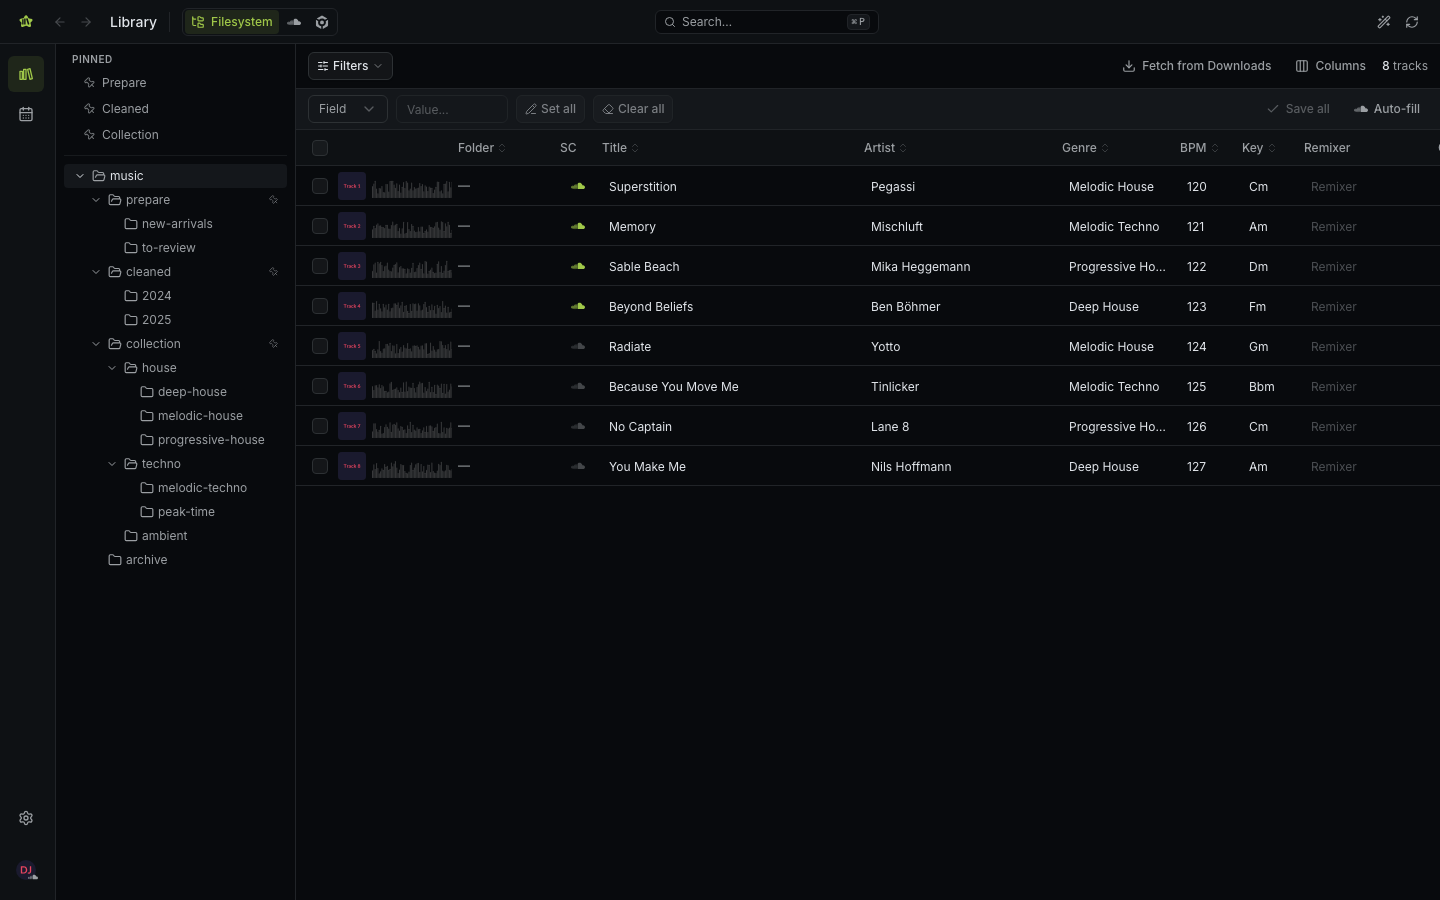
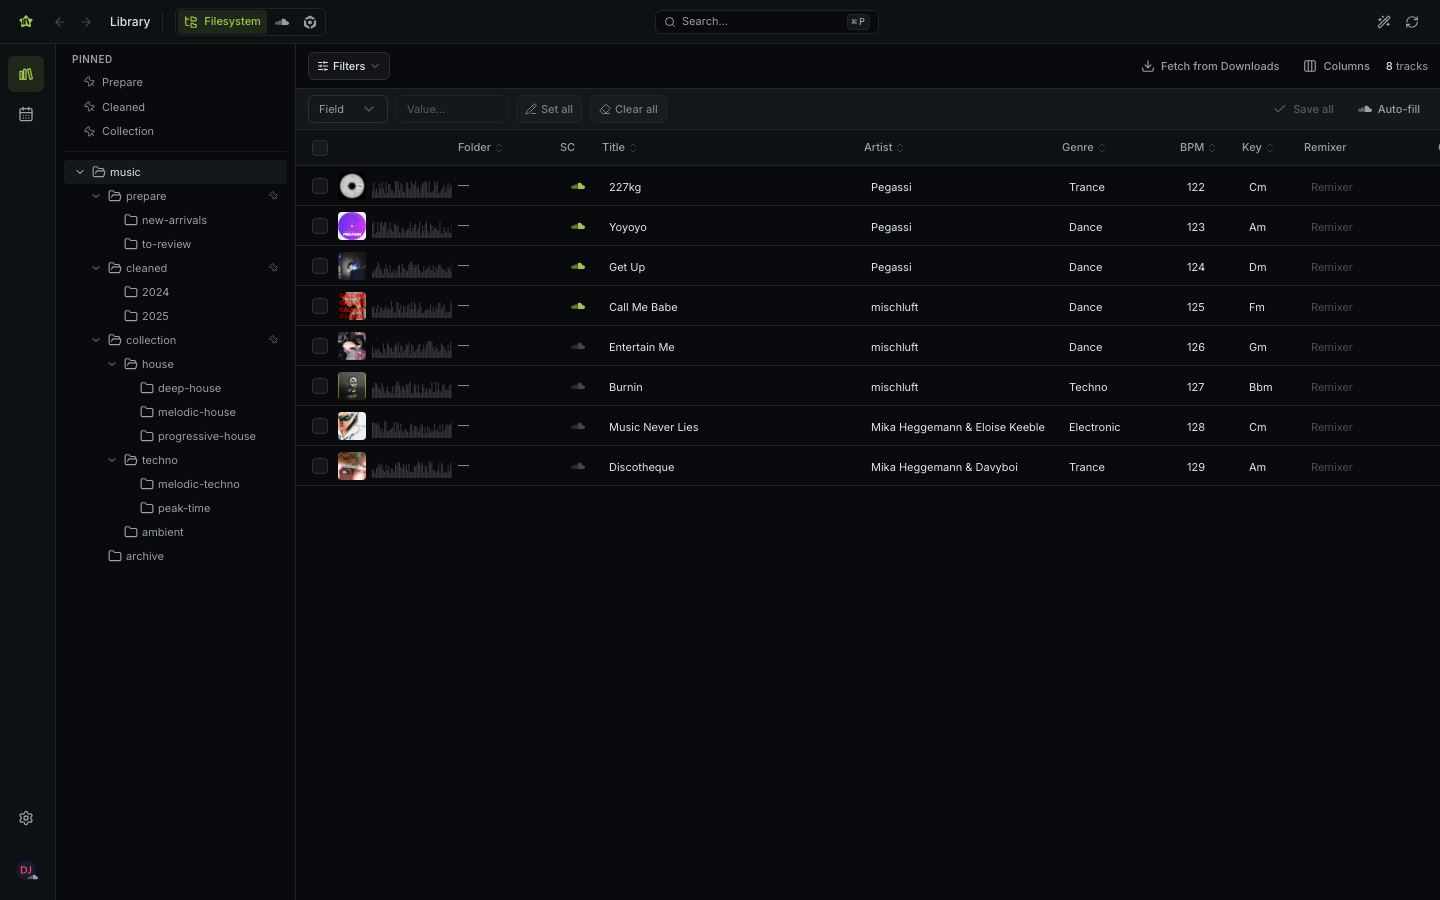
docs: refresh screenshots and de-flake the weekly fixture (#576)

diff --git a/frontend/e2e/screenshots.spec.ts b/frontend/e2e/screenshots.spec.ts
@@ -40,6 +40,22 @@ const CACHE_FILE = path.join(__dirname, "../../.cache/screenshot-tracks.json");
 // Track data: real SoundCloud data when available, otherwise placeholders
 // ---------------------------------------------------------------------------
 
+/**
+ * Upload date for feed track `i`, anchored to the start of the current week
+ * (Sunday, matching useWeeklyGroups) rather than to "now".
+ *
+ * Spacing feed tracks at `now - i days` makes the weekly screenshot depend on
+ * which weekday it was captured: on a Sunday only one track lands in the
+ * current week, leaving the page near-empty. Tracks 0-6 fill the current week,
+ * 7-11 fill the one before it, so the shot looks the same on any day.
+ */
+function feedCreatedAt(i: number): Date {
+  const d = new Date();
+  d.setHours(12, 0, 0, 0);
+  d.setDate(d.getDate() - d.getDay() + (i % 7) - 7 * Math.floor(i / 7));
+  return d;
+}
+
 function makePlaceholderTracks(
   count: number,
   idOffset: number,
@@ -161,9 +177,7 @@ if (fs.existsSync(CACHE_FILE)) {
     );
   MOCK_FEED_TRACKS = realFeed
     .slice(0, 12)
-    .map((t, i) =>
-      buildSCTrack(t, i, new Date(Date.now() - i * 24 * 60 * 60 * 1000)),
-    );
+    .map((t, i) => buildSCTrack(t, i, feedCreatedAt(i)));
 } else {
   MOCK_TRACKS = makePlaceholderTracks(
     12,
@@ -178,7 +192,7 @@ if (fs.existsSync(CACHE_FILE)) {
     PLACEHOLDER_FEED_TITLES,
     PLACEHOLDER_ARTISTS,
     "Feed",
-  );
+  ).map((t, i) => ({ ...t, created_at: feedCreatedAt(i).toISOString() }));
 }
 
 async function mockScreenshotApi(page: Page) {
@@ -717,6 +731,37 @@ async function mockScreenshotApi(page: Page) {
   );
 }
 
+/**
+ * Wait for every rendered <img> to finish decoding.
+ *
+ * Cover art is requested through the mocked image proxy only after the table
+ * rows mount, so those requests are still in flight when `networkidle`
+ * resolves. Screenshotting at that point captures empty artwork tiles instead
+ * of real covers.
+ */
+async function waitForImages(page: Page) {
+  try {
+    await page.waitForFunction(
+      () =>
+        document.images.length > 0 &&
+        Array.from(document.images).every(
+          (img) => img.complete && img.naturalWidth > 0,
+        ),
+      undefined,
+      { timeout: 15_000 },
+    );
+  } catch {
+    const broken = await page.evaluate(() =>
+      Array.from(document.images)
+        .filter((img) => !img.complete || img.naturalWidth === 0)
+        .map((img) => img.src),
+    );
+    console.warn(
+      `[screenshots] ${broken.length} image(s) did not load: ${broken.slice(0, 3).join(", ")}`,
+    );
+  }
+}
+
 function hideDevToolbar(page: Page) {
   return page.addInitScript(() => {
     const style = document.createElement("style");
@@ -787,6 +832,7 @@ test.describe("Documentation screenshots", () => {
     // Wait for table rows to render
     const firstRow = page.locator('[role="row"][class*="border-b"]').first();
     await firstRow.waitFor({ state: "visible" });
+    await waitForImages(page);
     await page.waitForTimeout(400);
     await page.screenshot({
       path: path.join(SCREENSHOT_DIR, "library.png"),
@@ -809,6 +855,7 @@ test.describe("Documentation screenshots", () => {
     await page
       .locator('input[data-slot="input"][placeholder="Title"]')
       .waitFor({ state: "visible" });
+    await waitForImages(page);
     await page.waitForTimeout(600);
     await page.screenshot({
       path: path.join(SCREENSHOT_DIR, "library-single.png"),
@@ -820,6 +867,7 @@ test.describe("Documentation screenshots", () => {
     await page.goto("/library?source=soundcloud");
     await page.waitForLoadState("networkidle");
     await waitForBackendGate(page);
+    await waitForImages(page);
     await page.screenshot({
       path: path.join(SCREENSHOT_DIR, "library-soundcloud.png"),
       fullPage: false,
@@ -830,6 +878,7 @@ test.describe("Documentation screenshots", () => {
     await page.goto("/weekly");
     await page.waitForLoadState("networkidle");
     await waitForBackendGate(page);
+    await waitForImages(page);
     await page.screenshot({
       path: path.join(SCREENSHOT_DIR, "weekly.png"),
       fullPage: false,
